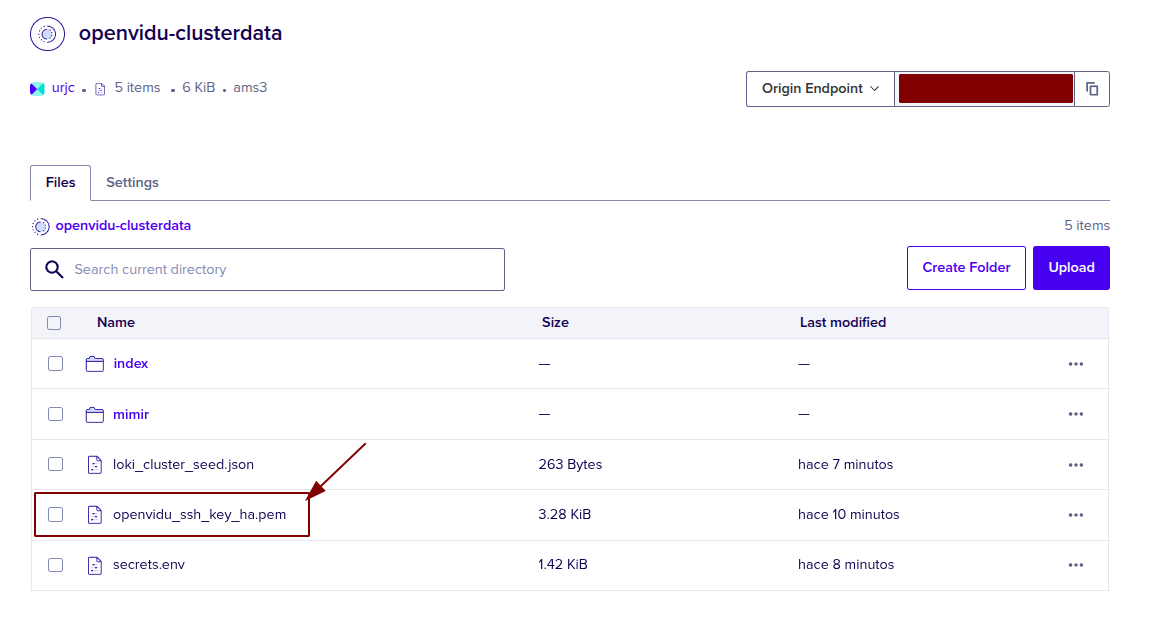
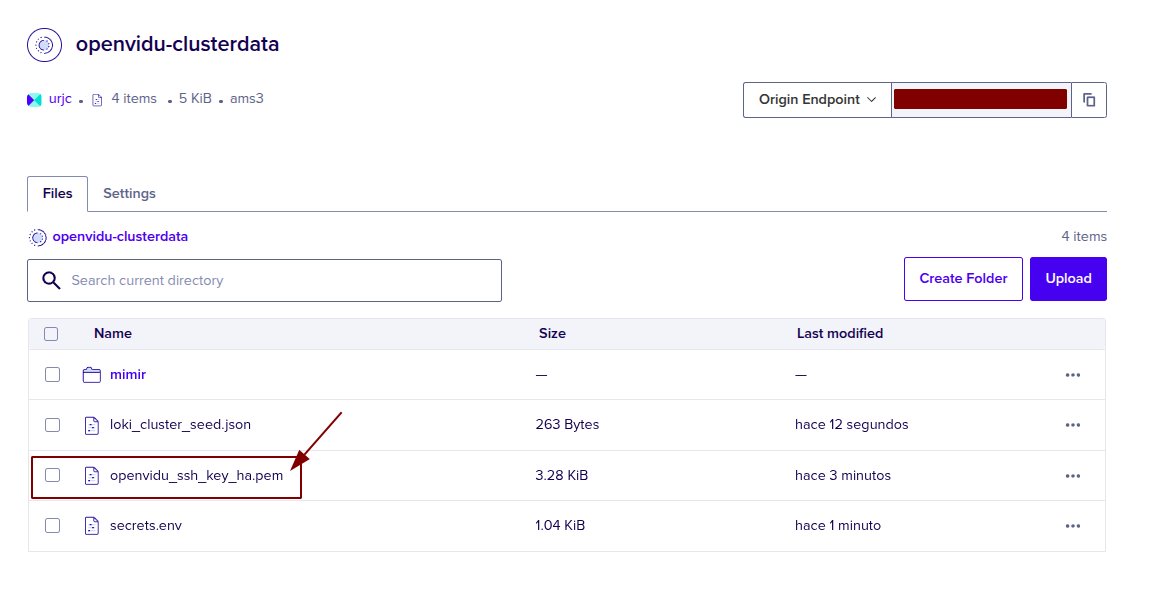
Add new images and update installation instructions for DigitalOcean

diff --git a/docs/docs/self-hosting/single-node-pro/digitalocean/install.md b/docs/docs/self-hosting/single-node-pro/digitalocean/install.md
@@ -8,8 +8,8 @@ tags:
 # OpenVidu Single Node <span class="openvidu-tag openvidu-pro-tag" style="font-size: .6em; vertical-align: text-bottom">PRO</span> installation: DigitalOcean
 This section describes two ways to install OpenVidu Single Node PRO on DigitalOcean:
 
-* [**Web Console**](#web-console): You can deploy without installing anything on your machine, but it requires more manual steps and has some limitations. For example, recordings are stored on the instance (instead of DigitalOcean S3-compatible storage).
-* [**Terraform**](#terraform): More powerful and automated, but it requires installing Terraform CLI on your machine.
+* [**Web Console**](#web-console): Can be deployed without installing anything in your machine, but it requires more manual steps and has some limitations. For example, recordings are stored in the machine (instead of Digital Ocean Spaces Object Storage). 
+* [**Terraform**](#terraform): More powerfull and automated, but it requires to install Terraform CLI on your machine.
 
 
 ## **Web Console**
@@ -224,7 +224,7 @@ This section contains instructions for deploying a production-ready OpenVidu Sin
   ```
   terraform init && terraform apply
   ```
-4. Wait until the SSH Key appears in the [Space Object Storage](https://cloud.digitalocean.com/spaces){:target=_blank} bucket you configured.
+4. You will see logs appear in the terraform apply execution console. Wait for it to finish and display `Apply Complete!`. Now go to [Space Object Storage](https://cloud.digitalocean.com/spaces){:target=_blank} and wait for the ssh key to appear in the bucket you have configured.   
 
     !!! warning
         Once you've downloaded that SSH Key please **DELETE IT** from the bucket. This SSH Key is the private key used to connect to the droplet so if someone gets it, they could be capable of entering the instance.
@@ -232,28 +232,45 @@ This section contains instructions for deploying a production-ready OpenVidu Sin
     ![SSH Key in Bucket](../../../../assets/images/self-hosting/single-node/digitalocean/bucket-ssh-key-pro.png){ .svg-img .dark-img }
     </figure>
 
-5. Go to where you downloaded your SSH Key and run the following command:
-  ```
-  chmod 600 openvidu_ssh_key_snpro.pem
-  ```
+5. Give the SSH Key the necessary permissions for it to work.
 
-### Checking credentials
+    === "Linux"
+        Command in linux:
+        ```
+        chmod 600 <PATH_TO_THE_KEY>/openvidu_ssh_key_snpro.pem
+        ```
+    === "Powershell"
+        Command in powershell:
+        ```
+        $KeyPath = "<PATH_TO_THE_KEY>" &&
+        icacls $KeyPath /inheritance:r &&
+        icacls $KeyPath /grant:r "$($env:USERNAME):(R)"
+        ```
 
-After waiting about 5 to 10 minutes to let the droplet run the installation of OpenVidu you can check the credentials in the instance.
+### Access OpenVidu
 
-=== "Check deployment outputs in the instance"
+To verify that your OpenVidu deployment works correctly wait for the `secrets.env` to appear in the bucket that you've configured and open it to view the credentials of OpenVidu.
+
+=== "View OpenVidu credentials in the Web"
+    - Go to the Space Object Storage bucket that you've configurated and download the `secrets.env` file.
+    <figure markdown>
+    ![Secrets.env in Bucket](../../../../assets/images/self-hosting/single-node/digitalocean/secrets-env-pro.png){ .svg-img .dark-img }
+    </figure>
+
+=== "View OpenVidu credentials in the instance"
 
     SSH to the instance by running this command from the directory where your SSH key is located:
     ```
     ssh -i openvidu_ssh_key_snpro.pem root@PUBLIC_DROPLET_IP
     ```
 
-    Then navigate to /opt/openvidu/ and you will find all required credentials in `secrets.env`.
+    Then navigate to /opt/openvidu/ and you will find all credentials needed in the `secrets.env`.
 
+Then open **OPENVIDU_URL** and you will see the OpenVidu Meet interface. Log in with **MEET_INITIAL_ADMIN_PASSWORD** and you will be able to enjoy the features of OpenVidu Meet.
 
 ### Configure your application to use the deployment 
 
-You may need your DigitalOcean credentials to configure your OpenVidu application. You can check these secrets using the following method: ([Check deployment outputs in the instance](#check-deployment-outputs-in-the-instance)).
+You may need your Digital Ocean credentials to configure your OpenVidu application. You can check these secrets following these steps ([View OpenVidu credentials in the Web](#view-openvidu-credentials-in-the-web)) or ([View OpenVidu credentials in the instance](#view-openvidu-credentials-in-the-instance)).
 
 Your authentication credentials and the URL to point your applications to are:
 

diff --git a/docs/docs/self-hosting/single-node/digitalocean/install.md b/docs/docs/self-hosting/single-node/digitalocean/install.md
@@ -8,8 +8,8 @@ tags:
 # OpenVidu Single Node <span class="openvidu-tag openvidu-community-tag" style="font-size: .6em; vertical-align: text-bottom">COMMUNITY</span> installation: DigitalOcean
 This section describes two ways to install OpenVidu Single Node on DigitalOcean:
 
-* [**Web Console**](#web-console): You can deploy without installing anything on your machine, but it requires more manual steps and has some limitations. For example, recordings are stored on the instance (instead of DigitalOcean S3-compatible storage).
-* [**Terraform**](#terraform): More powerful and automated, but it requires installing Terraform CLI on your machine.
+* [**Web Console**](#web-console): Can be deployed without installing anything in your machine, but it requires more manual steps and has some limitations. For example, recordings are stored in the machine (instead of Digital Ocean Spaces Object Storage). 
+* [**Terraform**](#terraform): More powerfull and automated, but it requires to install Terraform CLI on your machine.
 
 
 ## **Web Console**
@@ -215,7 +215,7 @@ This section contains instructions for deploying a production-ready OpenVidu Sin
   ```
   terraform init && terraform apply
   ```
-4. Wait until the SSH Key appears in the [Space Object Storage](https://cloud.digitalocean.com/spaces){:target=_blank} bucket you configured.
+4. You will see logs appear in the terraform apply execution console. Wait for it to finish and display `Apply Complete!`. Now go to [Space Object Storage](https://cloud.digitalocean.com/spaces){:target=_blank} and wait for the ssh key to appear in the bucket you have configured.   
 
     !!! warning
         Once you've downloaded that SSH Key please **DELETE IT** from the bucket. This SSH Key is the private key used to connect to the droplet so if someone gets it, they could be capable of entering the instance.
@@ -223,28 +223,45 @@ This section contains instructions for deploying a production-ready OpenVidu Sin
     ![SSH Key in Bucket](../../../../assets/images/self-hosting/single-node/digitalocean/bucket-ssh-key.png){ .svg-img .dark-img }
     </figure>
 
-5. Go to where you downloaded your SSH Key and run the following command:
-  ```
-  chmod 600 openvidu_ssh_key_sn.pem
-  ```
+5. Give the SSH Key the necessary permissions for it to work.
 
-### Checking credentials
+    === "Linux"
+        Command in linux:
+        ```
+        chmod 600 <PATH_TO_THE_KEY>/openvidu_ssh_key_sn.pem
+        ```
+    === "Powershell"
+        Command in powershell:
+        ```
+        $KeyPath = "<PATH_TO_THE_KEY>" &&
+        icacls $KeyPath /inheritance:r &&
+        icacls $KeyPath /grant:r "$($env:USERNAME):(R)"
+        ```
 
-After waiting about 5 to 10 minutes to let the droplet run the installation of OpenVidu you can check the credentials in the instance.
+### Access OpenVidu
 
-=== "Check deployment outputs in the instance"
+To verify that your OpenVidu deployment works correctly wait for the `secrets.env` to appear in the bucket that you've configured and open it to view the credentials of OpenVidu.
+
+=== "View OpenVidu credentials in the Web"
+    - Go to the Space Object Storage bucket that you've configurated and download the `secrets.env` file.
+    <figure markdown>
+    ![Secrets.env in Bucket](../../../../assets/images/self-hosting/single-node/digitalocean/secrets-env.png){ .svg-img .dark-img }
+    </figure>
+
+=== "View OpenVidu credentials in the instance"
 
     SSH to the instance by running this command from the directory where your SSH key is located:
     ```
     ssh -i openvidu_ssh_key_sn.pem root@PUBLIC_DROPLET_IP
     ```
 
-    Then navigate to /opt/openvidu/ and you will find all required credentials in `secrets.env`.
-
+    Then navigate to /opt/openvidu/ and you will find all credentials needed in the `secrets.env`.
+    
+Then open **OPENVIDU_URL** and you will see the OpenVidu Meet interface. Log in with **MEET_INITIAL_ADMIN_PASSWORD** and you will be able to enjoy the features of OpenVidu Meet.
 
 ### Configure your application to use the deployment 
 
-You may need your DigitalOcean credentials to configure your OpenVidu application. You can check these secrets using the following method: ([Check deployment outputs in the instance](#check-deployment-outputs-in-the-instance)).
+You may need your Digital Ocean credentials to configure your OpenVidu application. You can check these secrets following these steps ([View OpenVidu credentials in the Web](#view-openvidu-credentials-in-the-web)) or ([View OpenVidu credentials in the instance](#view-openvidu-credentials-in-the-instance)).
 
 Your authentication credentials and the URL to point your applications to are:
 

diff --git a/docs/docs/self-hosting/elastic/digitalocean/install.md b/docs/docs/self-hosting/elastic/digitalocean/install.md
@@ -169,7 +169,7 @@ This section describes how to deploy a production-ready OpenVidu Elastic instanc
   ```
   terraform init && terraform apply
   ```
-4. Wait until the SSH Key appears in the [Space Object Storage](https://cloud.digitalocean.com/spaces){:target=_blank} bucket you configured.
+4. You will see logs appear in the terraform apply execution console. Wait for it to finish and display `Apply Complete!`. Now go to [Space Object Storage](https://cloud.digitalocean.com/spaces){:target=_blank} and wait for the ssh key to appear in the bucket you have configured.   
 
     !!! warning
         Once you've downloaded that SSH Key please **DELETE IT** from the bucket. This SSH Key is the private key used to connect to the droplet so if someone gets it, they could be capable of entering the instance.
@@ -177,31 +177,46 @@ This section describes how to deploy a production-ready OpenVidu Elastic instanc
     ![SSH Key in Bucket](../../../../assets/images/self-hosting/elastic/digitalocean/bucket-ssh-key.png){ .svg-img .dark-img }
     </figure>
 
-5. Go to where you downloaded your SSH Key and run the following command:
-  ```
-  chmod 600 openvidu_ssh_key_elastic.pem
-  ```
+5. Give the SSH Key the necessary permissions for it to work.
 
-## Checking credentials
+    === "Linux"
+        Command in linux:
+        ```
+        chmod 600 <PATH_TO_THE_KEY>/openvidu_ssh_key_elastic.pem
+        ```
+    === "Powershell"
+        Command in powershell:
+        ```
+        $KeyPath = "<PATH_TO_THE_KEY>" &&
+        icacls $KeyPath /inheritance:r &&
+        icacls $KeyPath /grant:r "$($env:USERNAME):(R)"
+        ```
 
-After waiting about 5 to 10 minutes to let the droplet run the installation of OpenVidu you can check the credentials in the instance.
+### Access OpenVidu
 
-=== "Check deployment outputs in the instance"
+To verify that your OpenVidu deployment works correctly wait for the `secrets.env` to appear in the bucket that you've configured and open it to view the credentials of OpenVidu.
+
+=== "View OpenVidu credentials in the Web"
+    - Go to the Space Object Storage bucket that you've configurated and download the `secrets.env` file.
+    <figure markdown>
+    ![Secrets.env in Bucket](../../../../assets/images/self-hosting/elastic/digitalocean/secrets-env.png){ .svg-img .dark-img }
+    </figure>
+
+
+=== "View OpenVidu credentials in the instance"
 
     SSH to the instance by running this command from the directory where your SSH key is located:
     ```
     ssh -i openvidu_ssh_key_elastic.pem root@PUBLIC_DROPLET_IP
     ```
 
-    Then navigate to /opt/openvidu/ and you will find all required credentials in `secrets.env`.
+    Then navigate to /opt/openvidu/ and you will find all credentials needed in the `secrets.env`.
 
-=== "Check deployment outputs in the Web"
-
-    - Go to the Space Object Storage bucket you configured and download the `secrets.env` file.
+Then open **OPENVIDU_URL** and you will see the OpenVidu Meet interface. Log in with **MEET_INITIAL_ADMIN_PASSWORD** and you will be able to enjoy the features of OpenVidu Meet.
 
 ## Configure your application to use the deployment 
 
-You may need your DigitalOcean credentials to configure your OpenVidu application. You can check these secrets using either of these methods: ([Check deployment outputs in the instance](#check-deployment-outputs-in-the-instance)) or ([Check deployment outputs in the web](#check-deployment-outputs-in-the-web)).
+You may need your Digital Ocean credentials to configure your OpenVidu application. You can check these secrets following these steps ([View OpenVidu credentials in the Web](#view-openvidu-credentials-in-the-web)) or ([View OpenVidu credentials in the instance](#view-openvidu-credentials-in-the-instance)).
 
 Your authentication credentials and the URL to point your applications to are:
 

diff --git a/docs/docs/self-hosting/ha/digitalocean/install.md b/docs/docs/self-hosting/ha/digitalocean/install.md
@@ -182,7 +182,7 @@ This section describes how to deploy a production-ready OpenVidu High Availabili
   ```
   terraform init && terraform apply
   ```
-4. Wait until the SSH Key appears in the [Space Object Storage](https://cloud.digitalocean.com/spaces){:target=_blank} bucket you configured.
+4. You will see logs appear in the terraform apply execution console. Wait for it to finish and display `Apply Complete!`. Now go to [Space Object Storage](https://cloud.digitalocean.com/spaces){:target=_blank} and wait for the ssh key to appear in the bucket you have configured.   
 
     !!! warning
         Once you've downloaded that SSH Key please **DELETE IT** from the bucket. This SSH Key is the private key used to connect to the droplet so if someone gets it, they could be capable of entering the instance.
@@ -190,16 +190,33 @@ This section describes how to deploy a production-ready OpenVidu High Availabili
     ![SSH Key in Bucket](../../../../assets/images/self-hosting/ha/digitalocean/bucket-ssh-key.png){ .svg-img .dark-img }
     </figure>
 
-5. Go to where you downloaded your SSH Key and run the following command:
-  ```
-  chmod 600 openvidu_ssh_key_ha.pem
-  ```
+5. Give the SSH Key the necessary permissions for it to work.
 
-## Checking credentials
+    === "Linux"
+        Command in linux:
+        ```
+        chmod 600 <PATH_TO_THE_KEY>/openvidu_ssh_key_ha.pem
+        ```
+    === "Powershell"
+        Command in powershell:
+        ```
+        $KeyPath = "<PATH_TO_THE_KEY>" &&
+        icacls $KeyPath /inheritance:r &&
+        icacls $KeyPath /grant:r "$($env:USERNAME):(R)"
+        ```
 
-After waiting about 5 to 10 minutes to let the droplet run the installation of OpenVidu you can check the credentials in the instance.
+### Access OpenVidu
 
-=== "Check deployment outputs in the instance"
+To verify that your OpenVidu deployment works correctly wait for the `secrets.env` to appear in the bucket that you've configured and open it to view the credentials of OpenVidu.
+
+=== "View OpenVidu credentials in the Web"
+    - Go to the Space Object Storage bucket that you've configurated and download the `secrets.env` file.
+    <figure markdown>
+    ![Secrets.env in Bucket](../../../../assets/images/self-hosting/ha/digitalocean/secrets-env.png){ .svg-img .dark-img }
+    </figure>
+
+
+=== "View OpenVidu credentials in the instance"
 
     SSH to the instance by running this command from the directory where your SSH key is located:
     ```
@@ -208,13 +225,11 @@ After waiting about 5 to 10 minutes to let the droplet run the installation of O
 
     Then navigate to /opt/openvidu/ and you will find all required credentials in `secrets.env`.
 
-=== "Check deployment outputs in the Web"
-
-    - Go to the Space Object Storage bucket you configured and download the `secrets.env` file.
+Then open **OPENVIDU_URL** and you will see the OpenVidu Meet interface. Log in with **MEET_INITIAL_ADMIN_PASSWORD** and you will be able to enjoy the features of OpenVidu Meet.
 
 ## Configure your application to use the deployment 
 
-You may need your DigitalOcean credentials to configure your OpenVidu application. You can check these secrets using either of these methods: ([Check deployment outputs in the instance](#check-deployment-outputs-in-the-instance)) or ([Check deployment outputs in the web](#check-deployment-outputs-in-the-web)).
+You may need your Digital Ocean credentials to configure your OpenVidu application. You can check these secrets following these steps ([View OpenVidu credentials in the Web](#view-openvidu-credentials-in-the-web)) or ([View OpenVidu credentials in the instance](#view-openvidu-credentials-in-the-instance)).
 
 Your authentication credentials and the URL to point your applications to are:
 
